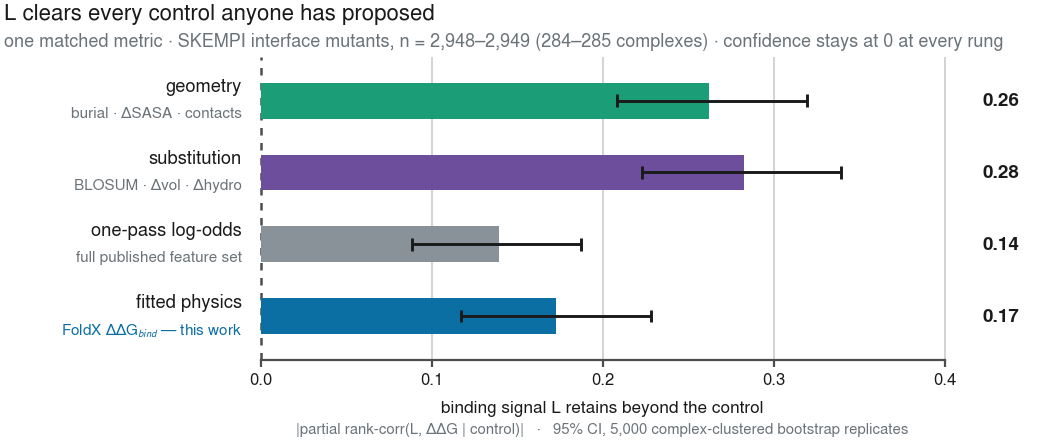
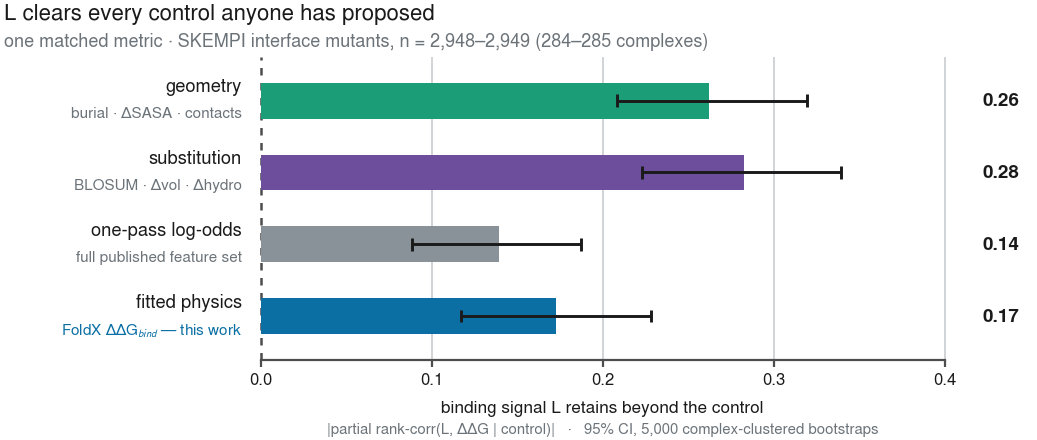
fig_ladder: shorten two label lines so the figure regenerates under DejaVu fallback
The figstyle width guard tripped on Sherlock because, without Nimbus/Helvetica/Arial,
matplotlib falls back to the wider DejaVu Sans and the two longest text lines pushed the
tight bbox past 5.5in. Shortened the axis-caption ("bootstraps" not "bootstrap replicates")
and dropped the redundant "confidence stays at 0 at every rung" from the header note.
Verified: with DejaVu forced the figure now writes at 5.19in, comfortably under the guard.
Numbers unchanged.

Claude-Session: https://claude.ai/code/session_01GANjj26GayPau9zeWCmVSG

Changed region(s): [[0.2777, 0.9455, 0.8949, 1.0], [0.6789, 0.0591, 0.9875, 0.1182]]

diff --git a/src/fig_ladder.py b/src/fig_ladder.py
@@ -71,7 +71,7 @@ ax.tick_params(colors=S.RULE, labelcolor=S.INK, length=2.5, labelsize=6.0, pad=2
 ax.annotate("binding signal L retains beyond the control", xy=(XTOP / 2, 0), xycoords=("data", "axes fraction"),
             xytext=(0, -14.5), textcoords="offset points", fontsize=6.2, color=S.INK, ha="center", va="top")
 nb = int(d.nboot.max())
-ax.annotate(f"|partial rank-corr(L, ΔΔG | control)|   ·   95% CI, {nb:,} complex-clustered bootstrap replicates",
+ax.annotate(f"|partial rank-corr(L, ΔΔG | control)|   ·   95% CI, {nb:,} complex-clustered bootstraps",
             xy=(XTOP / 2, 0), xycoords=("data", "axes fraction"), xytext=(0, -22.5),
             textcoords="offset points", fontsize=5.4, color=S.MUTED, ha="center", va="top")
 
@@ -83,7 +83,6 @@ def rng(lo, hi, fmt="{:,}"):
 n = rng(int(d.n.min()), int(d.n.max()))
 nc = rng(int(d.n_complex.min()), int(d.n_complex.max()))
 S.header(ax, "L clears every control anyone has proposed",
-         note=f"one matched metric · SKEMPI interface mutants, n = {n} ({nc} complexes)"
-              f" · confidence stays at 0 at every rung", tsize=8.0)
+         note=f"one matched metric · SKEMPI interface mutants, n = {n} ({nc} complexes)", tsize=8.0)
 S.save(fig, "fig_ladder")
 print("rungs:", {k: round(val[k], 3) for k in ORDER})
